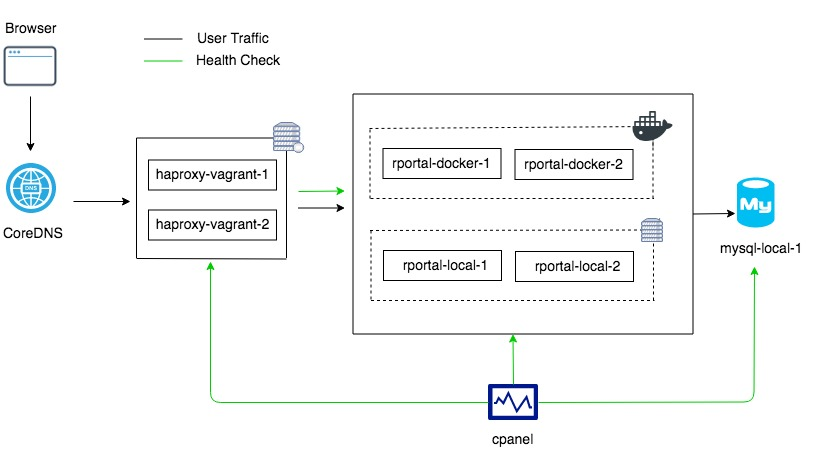
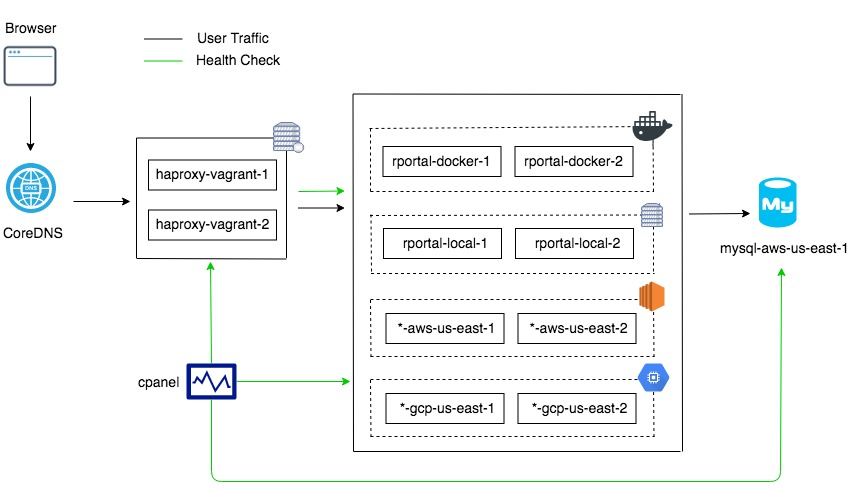
docs/image: update network topology

Changed region(s): [[0.0, 0.031, 1.0, 0.9912], [0.1528, 0.0619, 0.3362, 0.1549]]

diff --git a/README.md b/README.md
@@ -1,6 +1,6 @@
 # Project Spartan
 
-The Spartan is a hybrid-infrastructure and research-oriented HA (High Availability) project for IT 485.
+The Project Spartan is a hybrid-infrastructure and research-oriented HA (High Availability) prototype for IT 485.
 
 ## Project Status
 
